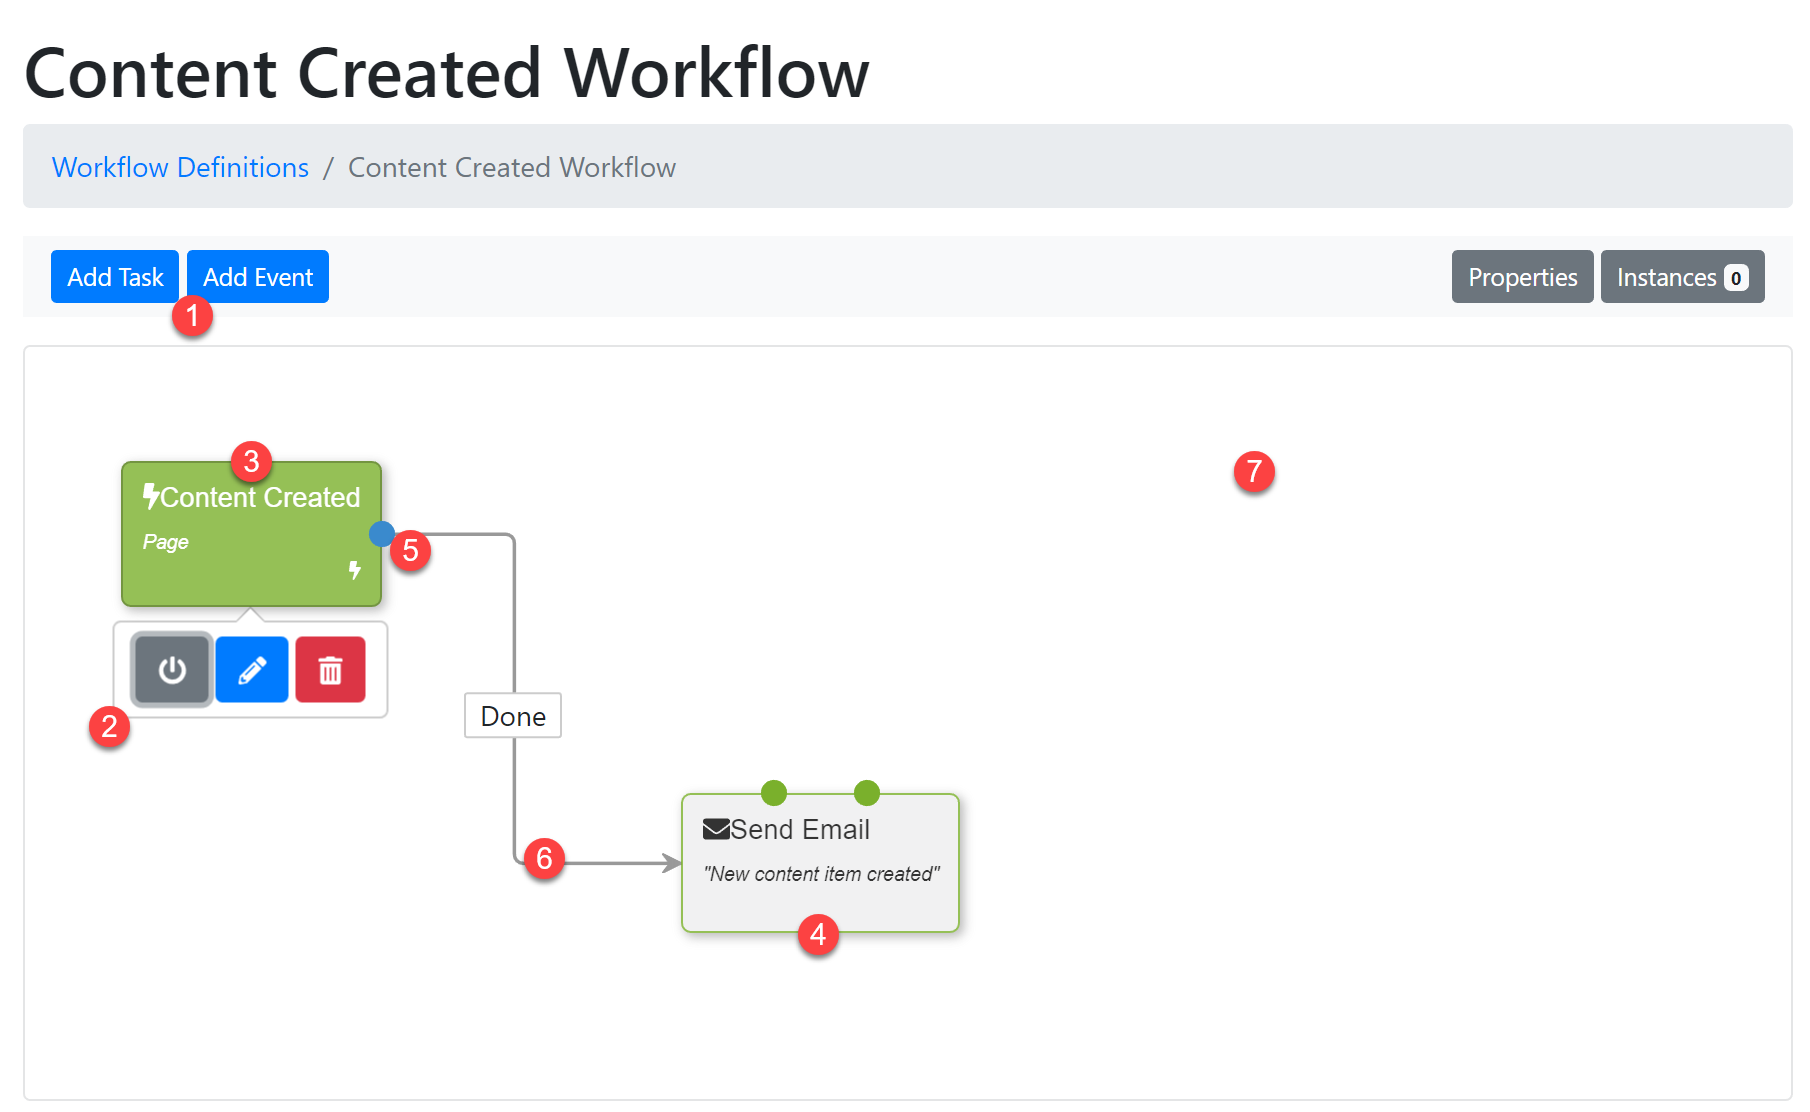
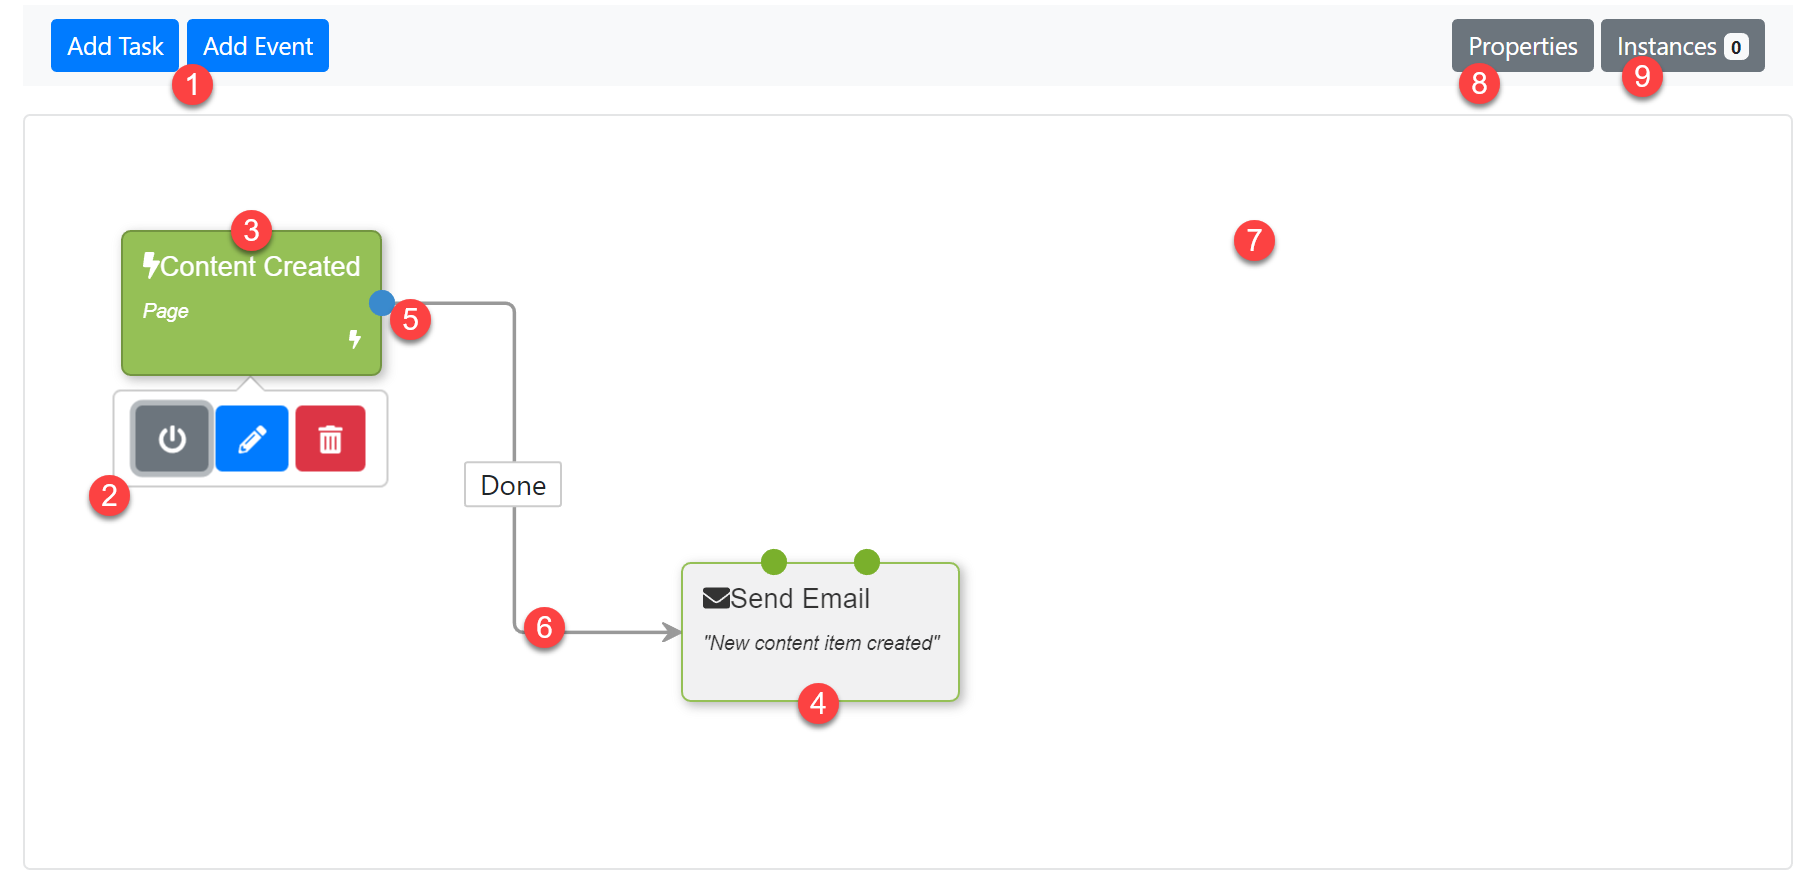
Updated workflow editor visual

diff --git a/src/OrchardCore.Modules/OrchardCore.Workflows/README.md b/src/OrchardCore.Modules/OrchardCore.Workflows/README.md
@@ -27,6 +27,8 @@ By connecting activities, you are effectively creating a program that can be exe
 5. An Outcome ("Done") of an activity.
 6. A transition between two activities (from "Content Created" via the "Done" outcome to the "Send Email" activity).
 7. The workflow editor design surface.
+8. Edit the workflow definition properties (Name, Enabled, etc.)
+9. List the workflow instances for this workflow definition.
 
 ## Vocabulary
 
